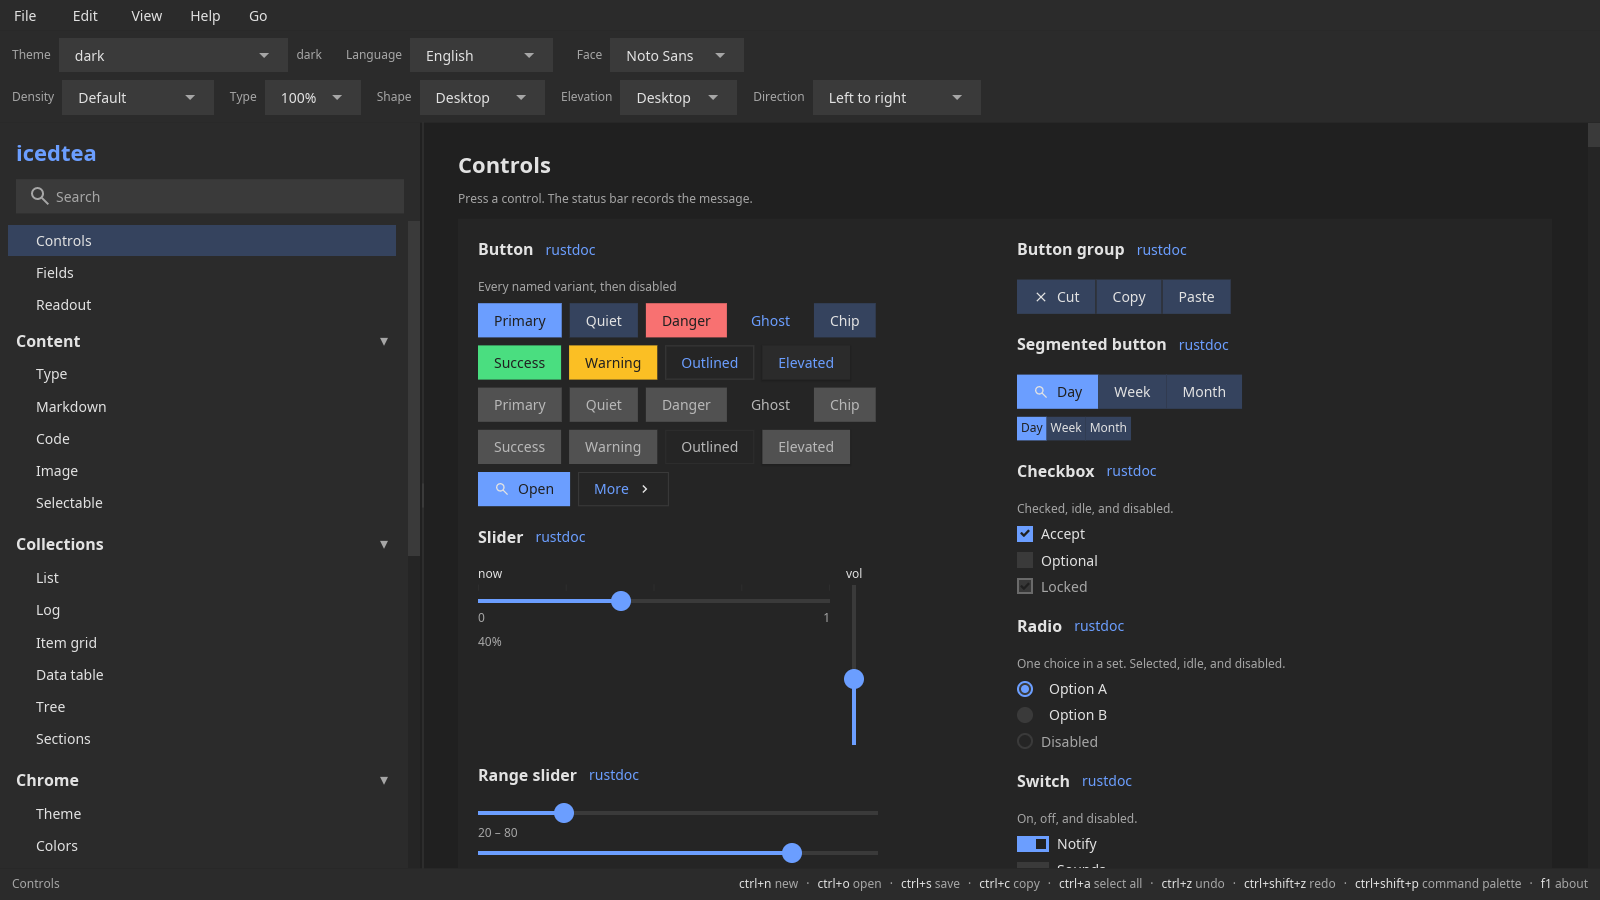
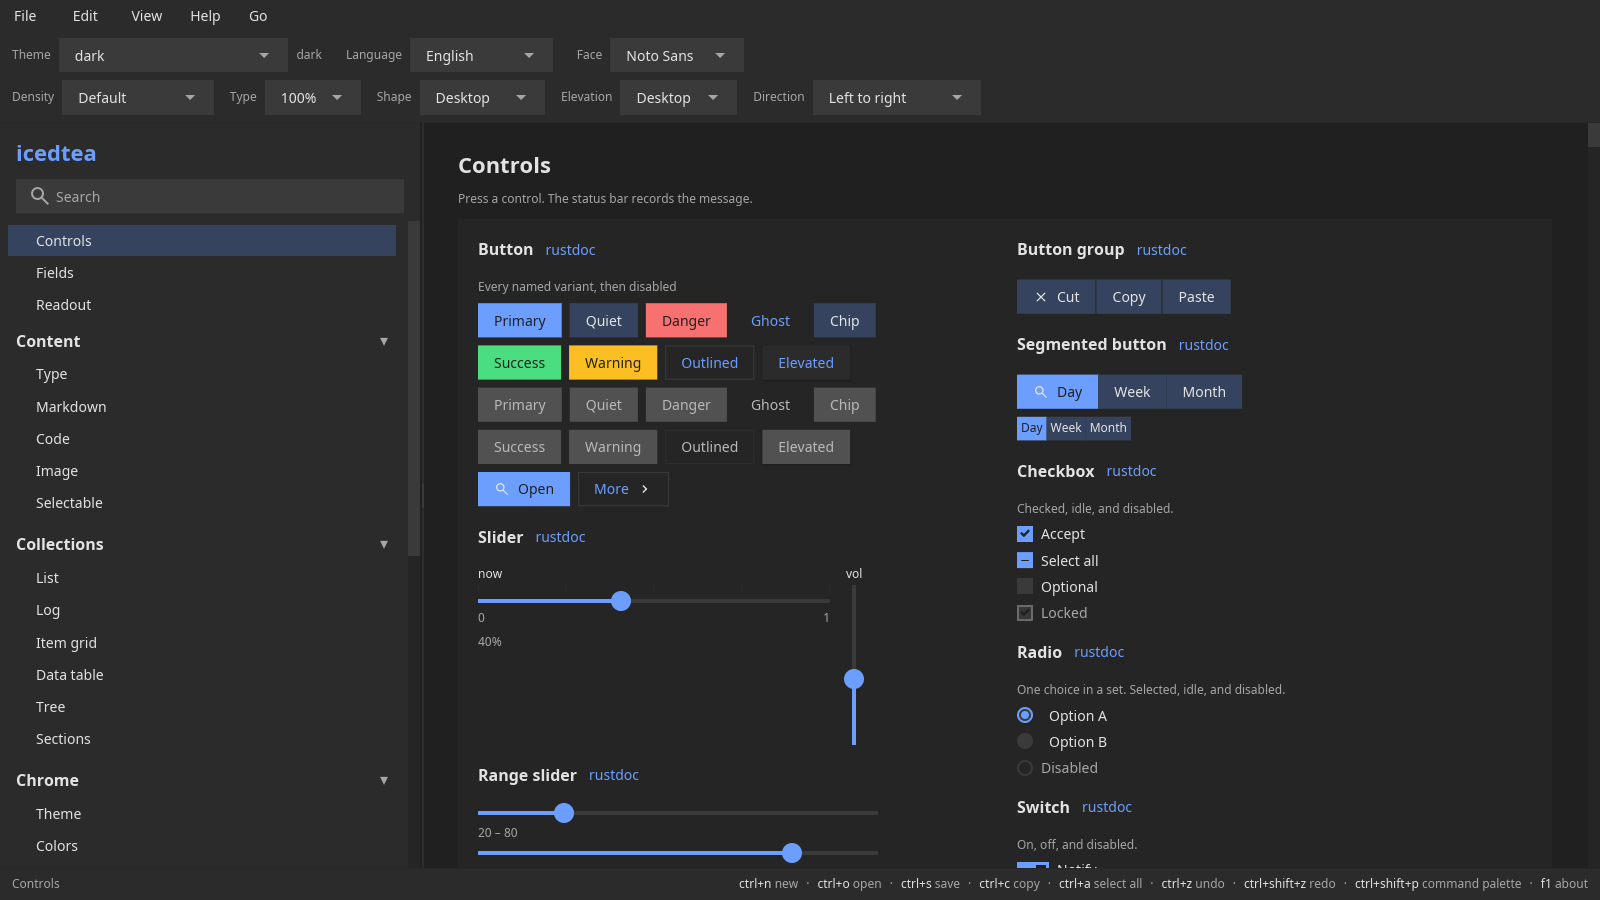
Update changelog for 0.17.0
Fold extra constructors onto faces and opts. Host I/O returns Task.
Menu titles publish open and close, including a pick.

Changed region(s): [[0.625, 0.5911, 0.7812, 0.9644]]

diff --git a/src/menubar.rs b/src/menubar.rs
@@ -790,6 +790,18 @@ mod tests {
     use super::*;
     use crate::theme::named;
 
+    fn must(ok: bool, msg: impl std::fmt::Display) {
+        if !ok {
+            panic!("{msg}");
+        }
+    }
+
+    #[test]
+    #[should_panic(expected = "cover-must")]
+    fn must_rejects_a_failed_check() {
+        must(false, "cover-must");
+    }
+
     #[test]
     fn title_is_not_sized_like_the_longest_item() {
         let pad = Padding::from(TITLE_PAD);
@@ -1070,9 +1082,9 @@ mod tests {
             Vector::ZERO,
         )
         .is_some());
-        assert!(
+        must(
             messages.iter().any(|m| m == "OPEN"),
-            "opening the title publishes on_open(true), got {messages:?}"
+            format!("opening the title publishes on_open(true), got {messages:?}"),
         );
 
         {
@@ -1089,6 +1101,24 @@ mod tests {
                 .as_overlay_mut()
                 .layout(&renderer, Size::new(800.0, 600.0));
             let ol = Layout::new(&node);
+            ov.as_overlay()
+                .draw(&mut renderer, &theme, &style, ol, over);
+            let _ = ov.as_overlay().mouse_interaction(ol, over, &renderer);
+            struct Nop;
+            impl iced::advanced::widget::Operation for Nop {
+                fn traverse(
+                    &mut self,
+                    operate: &mut dyn FnMut(&mut dyn iced::advanced::widget::Operation),
+                ) {
+                    operate(self);
+                }
+            }
+            let mut nop = Nop;
+            iced::advanced::widget::Operation::traverse(&mut nop, &mut |op| {
+                ov.as_overlay_mut().operate(ol, &renderer, op);
+            });
+            let _ = ov.as_overlay_mut().overlay(ol, &renderer);
+            let _ = ov.as_overlay().index();
             let at = Point::new(ol.bounds().x + 8.0, ol.bounds().y + 8.0);
             let cursor = mouse::Cursor::Available(at);
             {
@@ -1112,9 +1142,9 @@ mod tests {
             }
         }
         assert!(messages.contains(&"Open".to_string()));
-        assert!(
+        must(
             messages.iter().any(|m| m == "SHUT"),
-            "picking a row publishes on_open(false), got {messages:?}"
+            format!("picking a row publishes on_open(false), got {messages:?}"),
         );
         messages.clear();
 
@@ -1151,9 +1181,9 @@ mod tests {
             &viewport,
             &mut messages,
         );
-        assert!(
+        must(
             messages.iter().any(|m| m == "SHUT"),
-            "Escape publishes on_open(false), got {messages:?}"
+            format!("Escape publishes on_open(false), got {messages:?}"),
         );
         pump_title(
             &mut widget,
@@ -1347,9 +1377,9 @@ mod tests {
             &viewport,
             &mut messages,
         );
-        assert!(
+        must(
             messages.iter().all(|m| m == "OPEN" || m == "SHUT"),
-            "only open/close messages, got {messages:?}"
+            format!("only open/close messages, got {messages:?}"),
         );
     }
 

diff --git a/src/pattern.rs b/src/pattern.rs
@@ -2774,6 +2774,25 @@ mod tests {
             },
         );
         draw_once(&mut dlg);
+        let scene = crate::widget::label(
+            " ",
+            crate::widget::LabelFace::Body,
+            tok,
+            A11y::new("dim", Role::Status),
+        );
+        let mut dimmed: Element<'_, ()> = dialog_sheet(
+            "Save",
+            "Overwrite?",
+            ("Save".into(), ()),
+            tok,
+            A11y::new("Save", Role::Dialog),
+            DialogOpts {
+                backdrop: Some(scene),
+                progress: 1.0,
+                ..DialogOpts::default()
+            },
+        );
+        draw_once(&mut dimmed);
     }
 
     #[test]

diff --git a/src/widget.rs b/src/widget.rs
@@ -8562,6 +8562,13 @@ mod tests {
             tok,
             A11y::new("all", Role::Checkbox),
         );
+        let _: Element<'_, CheckState> = checkbox(
+            "",
+            CheckState::Indeterminate,
+            |s| s,
+            tok,
+            A11y::new("empty-tri", Role::Checkbox),
+        );
         let _: Element<'_, ()> = banner("watch", None, Some(ToastKind::Warning), tok, a("watch"));
         let code = Content::with_text("fn main() {}");
         let _: Element<'_, ()> = highlighted_code(

diff --git a/.grok/skills/gallery-qa/references/visual.md b/.grok/skills/gallery-qa/references/visual.md
@@ -52,7 +52,7 @@ In the same change:
 | table | `book/src/images/collections.png` | Frozen leading Name; RTL rail on the end |
 | tree | `book/src/images/collections.png` | Folders + leaves; closed twisty toward start. After leaf select: status is the locale Selected word plus mapped digits (Selected 3 / محدد ٣ / منتخب ٣ / נבחר 3). Western `3` on ar/ur is broken; Hebrew stays 3 |
 | sections | `book/src/images/collections.png` | Accordion, expander, tabs above the fold. ar/ur expander count uses Eastern digits. Locale: the accordion host title is catalog fill (アコーディオン / 手风琴 / أكورديون). vi keeps the loanword `Accordion` — that is catalog fill, not leftover English. Closable tab order is icon, title, badge, then close on the end (left in RTL) |
-| theme | (extra gallery page, not a catalog id; light beat is the paper canvas) | Named colorway tiles from `theme::named`; light beat is light. Locale: family hint is catalog fill (系統 / 系列 / Nhóm), not leftover Latin `Family`. RTL: first tile (dark) on the start (right); wrap rows start-align. Look-strip and tile labels `dark` / `light` are registered colorway ids, not leftover English |
+| theme | (page still; extra gallery page, not a catalog id; light beat is the paper canvas) | Named colorway tiles from `theme::named`; light beat is light. Locale: family hint is catalog fill (系統 / 系列 / Nhóm), not leftover Latin `Family`. RTL: first tile (dark) on the start (right); wrap rows start-align. Look-strip and tile labels `dark` / `light` are registered colorway ids, not leftover English |
 | colors | `book/src/images/chrome.png` | Extra gallery page (not a catalog id). Token washes from `theme::mix`, not one-off hex. Locale: token labels are catalog fill (悬停 / ホバー / تحويم). vi keeps the role slugs `hover` / `pressed` / `chip` — that is catalog fill, not a missing row |
 | keys | `book/src/images/chrome.png` | Cheatsheet catalog host plus the type-a-key pad: title, a checkbox, a list, and a status bar. Locale: the type-a-key hint is catalog fill (エンター / إدخال / داخلہ / אנטר), not leftover Latin `Enter` / `Escape`. RTL: Type-a-key title and hint under the heading on the start (right), not across the gutter; checkbox and list on the start; status chords on the end. Locale density matches English |
 | layout | `book/src/images/layout.png` | Idle first screen is pack then wrap: Find hug, filling search, Go hug on one row; unequal chips wrap to a second line; min-width tiles share leftover and sit more than one across. RTL: Find and the first chip sit on the start (right); Go on the end (left); first tile on the start. Locale: Find / Go / tile titles are catalog fill, not leftover English `Find` / `Go` / `Inbox` |

diff --git a/CHANGELOG.md b/CHANGELOG.md
@@ -2,6 +2,8 @@
 
 ## Unreleased
 
+## 0.17.0 — 2026-09-07
+
 ### Feature
 
 - `checkbox` takes `CheckState` (checked, unchecked, indeterminate).
